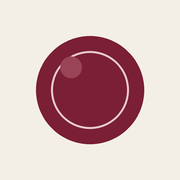
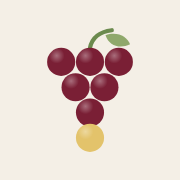
Neues App-Symbol: Traube aus Kapseln (auch auf der Anmeldeseite)
Claude-Session: https://claude.ai/code/session_017iXQzU7zi4vk4hWwAtHmHw

Changed region(s): [[0.1944, 0.1389, 0.8056, 0.8611]]

diff --git a/js/views.js b/js/views.js
@@ -48,7 +48,7 @@ export function labelImg(w, urls, cls) {
 
 /* ---------- Login ---------- */
 export function loginView(err, busy, email) {
-  return '<div class="login"><svg class="logo" viewBox="0 0 64 64" aria-hidden="true"><circle cx="32" cy="32" r="30" fill="#7A1F35"/><circle cx="32" cy="32" r="21" fill="none" stroke="#FBF3EE" stroke-opacity=".35" stroke-width="2"/><circle cx="25" cy="24" r="6" fill="#fff" fill-opacity=".22"/></svg>' +
+  return '<div class="login"><svg class="logo" viewBox="0 0 512 512" aria-hidden="true"><defs><radialGradient id="lg4" cx="34%" cy="28%" r="62%"><stop offset="0" stop-color="#fff" stop-opacity=".35"/><stop offset=".45" stop-color="#fff" stop-opacity="0"/></radialGradient></defs><path d="M256 136c6-30 30-46 62-50" fill="none" stroke="#6B8A4E" stroke-width="14" stroke-linecap="round"/><path d="M300 100c34-12 62 4 70 26-30 14-60 4-70-26z" fill="#8FA86B"/><circle cx="174" cy="176" r="40" fill="#7A1F35"/><circle cx="174" cy="176" r="40" fill="url(#lg4)"/><circle cx="256" cy="176" r="40" fill="#7A1F35"/><circle cx="256" cy="176" r="40" fill="url(#lg4)"/><circle cx="338" cy="176" r="40" fill="#7A1F35"/><circle cx="338" cy="176" r="40" fill="url(#lg4)"/><circle cx="215" cy="248" r="40" fill="#7A1F35"/><circle cx="215" cy="248" r="40" fill="url(#lg4)"/><circle cx="297" cy="248" r="40" fill="#7A1F35"/><circle cx="297" cy="248" r="40" fill="url(#lg4)"/><circle cx="256" cy="320" r="40" fill="#7A1F35"/><circle cx="256" cy="320" r="40" fill="url(#lg4)"/><circle cx="256" cy="392" r="40" fill="#E3C36B"/><circle cx="256" cy="392" r="40" fill="url(#lg4)"/></svg>' +
     '<div class="eyebrow">Wine Database</div><h1 class="title">Mein Weinkeller</h1>' +
     '<form data-form="login"><div class="field"><label for="em">E-Mail</label><input id="em" name="email" type="email" autocomplete="username" required value="' + esc(email || '') + '"></div>' +
     '<div class="field"><label for="pw">Passwort</label><input id="pw" name="password" type="password" autocomplete="current-password" required></div>' +

diff --git a/index.html b/index.html
@@ -9,8 +9,8 @@
 <meta name="apple-mobile-web-app-title" content="Weinkeller">
 <meta name="apple-mobile-web-app-status-bar-style" content="default">
 <link rel="manifest" href="manifest.webmanifest">
-<link rel="apple-touch-icon" href="icons/apple-touch-icon.png">
-<link rel="icon" href="icons/icon-192.png">
+<link rel="apple-touch-icon" href="icons/apple-touch-icon.png?v=2">
+<link rel="icon" href="icons/icon-192.png?v=2">
 <title>Weinkeller</title>
 <link rel="preconnect" href="https://fonts.googleapis.com">
 <link rel="preconnect" href="https://fonts.gstatic.com" crossorigin>

diff --git a/sw.js b/sw.js
@@ -1,5 +1,5 @@
 // Einfacher Service Worker: App-Dateien offline verfügbar, aber immer zuerst frisch aus dem Netz.
-const CACHE = 'weinkeller-v13'; // zusammen mit js/version.js erhöhen
+const CACHE = 'weinkeller-v14'; // zusammen mit js/version.js erhöhen
 self.addEventListener('install', () => { self.skipWaiting(); });
 self.addEventListener('activate', (e) => {
   e.waitUntil(caches.keys().then((keys) => Promise.all(keys.filter((k) => k !== CACHE).map((k) => caches.delete(k)))).then(() => self.clients.claim()));

diff --git a/js/version.js b/js/version.js
@@ -1,2 +1,2 @@
 // Bei jeder Veröffentlichung erhöhen (zusammen mit CACHE in sw.js)
-export const VERSION = '1.0.11';
+export const VERSION = '1.0.12';
